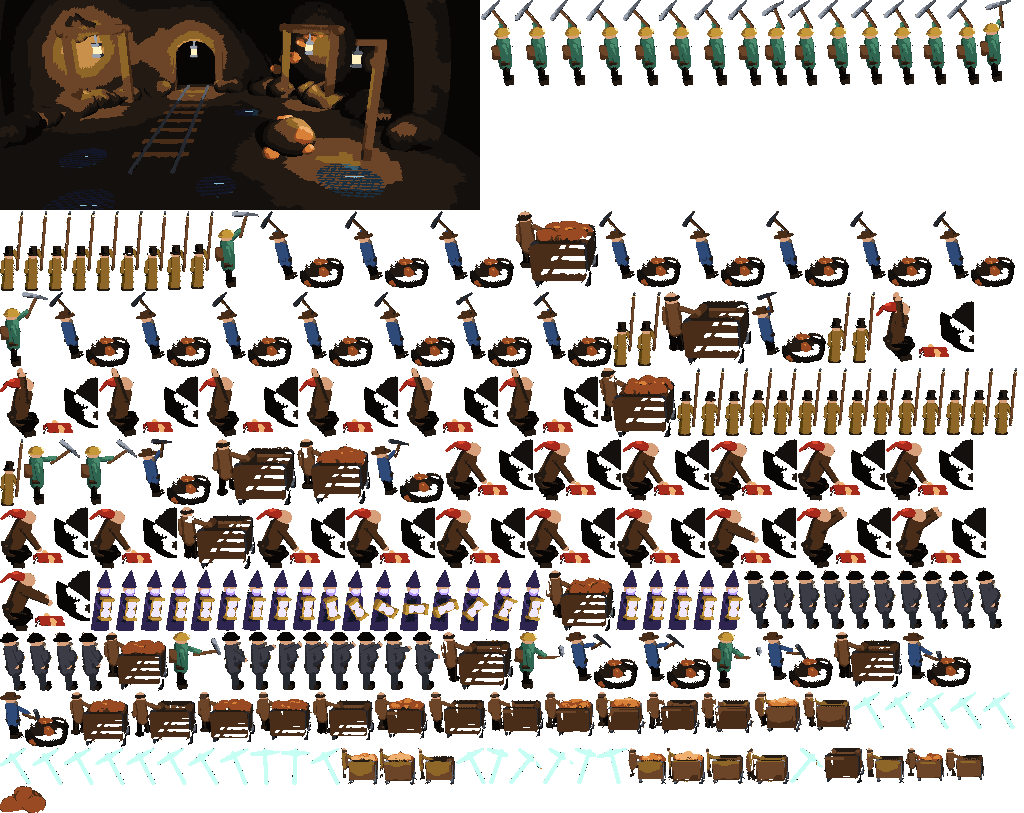
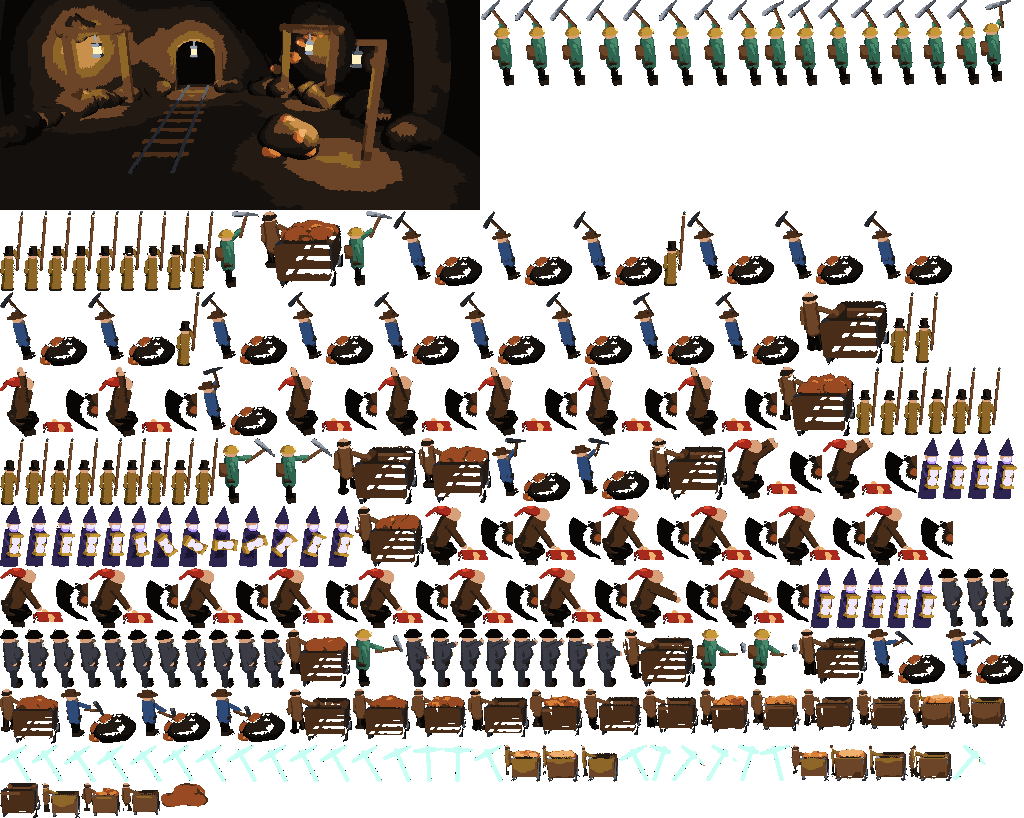
Remove the puddles from the mine floor

diff --git a/art/src/mine.js b/art/src/mine.js
@@ -1,5 +1,5 @@
 // Ore Heroes: the mine, forked from Blacksmith Battles' splat/art/toy-mine.js (same cave, same lights, same miner).
-// A cut-away cavern: a rock dome, timber frames with hanging lanterns, a tunnel mouth with rails, puddles, a copper vein.
+// A cut-away cavern: a rock dome, timber frames with hanging lanterns, a tunnel mouth with rails, a copper vein.
 // Each mine hero is its own layer, picked with OH_LAYER (miner, boss, pros, cart, phantom, blast, lamp, time; none = the empty cave).
 // The ore cart is no longer scenery: it is the Carter's, drawn at OH_Z along the rails, rolling OH_DIR (in = empty, out = full);
 // OH_NOBODY=1 draws it empty and parked, with no Carter, for before he is hired.
@@ -102,13 +102,6 @@ module.exports = ({ makeBuilder, makeSculpt, KIT: K }) => {
       const a = 0.45 + 0.07 * i, y = 0.9 + 0.3 * i + 0.15 * Math.sin(i * 2.3);
       const rr = RI * Math.sqrt(Math.max(0.02, 1 - Math.pow(y / (H - 0.5), 2.2))) - 0.02;
       S.rock([Math.sin(a) * rr, y, -Math.cos(a) * rr], 0.16 + 0.06 * K.hash(i, 9), ORE, { res: 0.03 });
-    }
-
-    // ---- puddles on the floor: flat water with a pale glint ----
-    for (const [x, z, rx, rz] of [[2.6, 1.7, 0.55, 0.3], [-2.4, 0.9, 0.42, 0.26], [0.3, 1.9, 0.32, 0.18], [-1.7, 2.5, 0.5, 0.22], [0.9, -1.9, 0.35, 0.2]]) {
-      S.lathe([x, 0, z], 0.03, rx, { r: [14, 15, 16] }, { res: 0.025 });
-      S.lathe([x + rz * 0.6, 0, z - rz * 0.4], 0.03, rz * 0.9, { r: [14, 15, 16] }, { res: 0.025 });
-      S.box([x + rx * 0.2, 0.035, z - rz * 0.2], [rx * 0.3, 0.006, 0.012], { r: [17] }, { res: 0.012 }); // glint
     }
 
     // a lantern on a post beside the boulder, so the miner works in its pool of light

diff --git a/sw.js b/sw.js
@@ -1,6 +1,6 @@
 // Offline support for Ore Heroes: pages are fetched fresh when online (so updates arrive) and served from cache when offline.
 // Its own cache name, separate from Blacksmith Battles.
-const C='ore-heroes-v3';
+const C='ore-heroes-v4';
 self.addEventListener('install',e=>{e.waitUntil(caches.open(C).then(c=>c.addAll(['./','index.html','art/mine.png','art/mine.json','manifest.webmanifest','icon-192.png','icon-512.png','apple-touch-icon.png'])));self.skipWaiting()});
 self.addEventListener('activate',e=>e.waitUntil(caches.keys().then(ks=>Promise.all(ks.filter(k=>k.startsWith('ore-heroes-')&&k!==C).map(k=>caches.delete(k)))).then(()=>self.clients.claim())));
 self.addEventListener('fetch',e=>{const r=e.request;if(r.method!=='GET')return;
